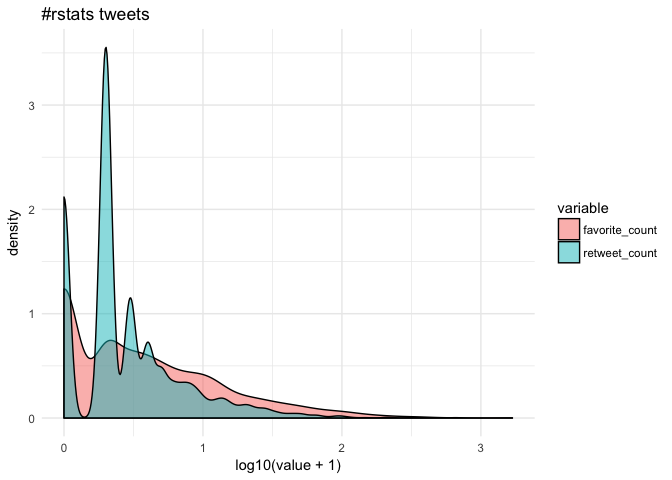
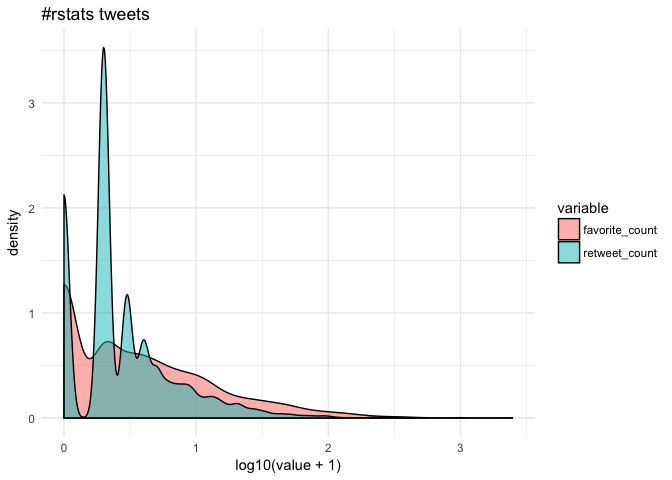
updated plots

Changed region(s): [[0.0938, 0.0938, 0.625, 0.875]]

diff --git a/README.md b/README.md
@@ -2,29 +2,38 @@ Analyzing rtweet data with kerasformula
 ================
 Pete Mohanty
 
-This document introduces `kms`, the main function of `library(kerasformula)`. Newly on `CRAN`, `kerasformula` offers a high-level interface for `library(keras)`. Many classic machine learning tutorials assume that data come in a relatively homogenous form (e.g., pixels for digit recognition or word counts or ranks) which can make coding somewhat cumbersome when data come in a heterogenous data frame. `kms` takes advantage of the flexibility of R formulas to smooth this process.
+Overview
+--------
+
+The [kerasformula](https://cran.r-project.org/web/packages/kerasformula/index.html) package offers a high-level interface for the R interface to [Keras](https://keras.rstudio.com). It's main interface is the `kms` function, a regression-style interface to `keras_model_sequential` that uses formulas and sparse matrices.
+
+The [kerasformula](https://cran.r-project.org/web/packages/kerasformula/index.html) package is available on CRAN, and can be installed with:
+
+``` r
+# install the kerasformula package
+install.packages("kerasformula")    # or devtools::install_github("rdrr1990/kerasformula")
+library(kerasformula)
+
+# install the core keras library (if you haven't already done so)
+# see ?install_keras() for options e.g. install_keras(tensorflow = "gpu")
+install_keras()
+```
+
+The kms() function
+------------------
+
+Many classic machine learning tutorials assume that data come in a relatively homogenous form (e.g., pixels for digit recognition or word counts or ranks) which can make coding somewhat cumbersome when data is contained in a heterogenous data frame. `kms()` takes advantage of the flexibility of R formulas to smooth this process.
 
 `kms` builds dense neural nets and, after fitting them, returns a single object with predictions, measures of fit, and details about the function call. `kms` accepts a number of parameters including the loss and activation functions found in `keras`. `kms` also accepts compiled `keras_model_sequential` objects allowing for even further customization. This little demo shows how `kms` can aid is model building and hyperparameter selection (e.g., batch size) starting with raw data gathered using `library(rtweet)`.
 
-To get going, make sure that `keras` and `retweet` configured.
-
-``` r
-install.packages("kerasformula", "rtweet")
-library(kerasformula)
-install_keras()                        # first time only. see ?install_keras() for install options
-                                       # like install_keras(tensorflow = "gpu")
-
-library(rtweet)                        # see https://github.com/mkearney/rtweet
-```
-
-Let's look at \#rstats tweets (excluding retweets) for a six-day period ending January 24, 2018 at 00:15. This happens to give us a nice reasonable number of observations to work with in terms of runtime (and the purpose of this document is to show syntax, not build particularly predictive models).
+Let's look at \#rstats tweets (excluding retweets) for a six-day period ending January 24, 2018 at 10:40. This happens to give us a nice reasonable number of observations to work with in terms of runtime (and the purpose of this document is to show syntax, not build particularly predictive models).
 
 ``` r
 rstats <- search_tweets("#rstats", n = 10000, include_rts = FALSE)
 dim(rstats)
 ```
 
-    [1] 2728   42
+    [1] 2840   42
 
 Suppose our goal is to predict how popular tweets will be based on how often the tweet was retweeted and favorited (which correlate strongly).
 
@@ -32,14 +41,14 @@ Suppose our goal is to predict how popular tweets will be based on how often the
 cor(rstats$favorite_count, rstats$retweet_count, method="spearman")
 ```
 
-    [1] 0.7000378
+    [1] 0.7051952
 
 Since few tweeets go viral, the data are quite skewed towards zero.
 
 ![](README_files/figure-markdown_github-ascii_identifiers/densities-1.png)
 
-Getting the Most out of Formulas
-================================
+Getting the most out of formulas
+--------------------------------
 
 Let's suppose we are interested in putting tweets into categories based on popularity but we're not sure how finely-grained we want to make distinctions. Some of the data, like `rstats$mentions_screen_name` comes in a list of varying lengths, so let's write a helper function to count non-NA entries.
 
@@ -72,14 +81,14 @@ popularity$confusion
 
                    
                     (-1,0] (0,1] (1,10] (10,100] (100,1e+03] (1e+03,1e+04]
-      (-1,0]            40     4     29        2           0             0
-      (0,1]             28    18     64        2           0             0
-      (1,10]            10     5    191       22           0             0
-      (10,100]           0     2     54       48           3             0
-      (100,1e+03]        0     0      4       10           2             0
-      (1e+03,1e+04]      0     0      0        0           0             0
+      (-1,0]            37    12     28        2           0             0
+      (0,1]             14    19     72        1           0             0
+      (1,10]             6    11    187       30           0             0
+      (10,100]           1     3     54       68           0             0
+      (100,1e+03]        0     0      4       10           0             0
+      (1e+03,1e+04]      0     0      0        1           0             0
 
-The model only classifies about 55.6% of the out-of-sample data correctly. The confusion matrix suggests that model does best with tweets that aren't retweeted but struggles with others. The `history` plot also suggests that out-of-sample accuracy is not very stable. We can easily change the breakpoints and number of epochs.
+The model only classifies about 55.5% of the out-of-sample data correctly. The confusion matrix suggests that model does best with tweets that aren't retweeted but struggles with others. The `history` plot also suggests that out-of-sample accuracy is not very stable. We can easily change the breakpoints and number of epochs.
 
 ``` r
 breaks <- c(-1, 0, 1, 25, 50, 75, 100, 500, 1000, 10000)
@@ -126,8 +135,8 @@ popularity <- kms(pop_input, rstats)
 
 ![](README_files/figure-markdown_github-ascii_identifiers/mentionsplot-1.png)
 
-Customizing Layers with kms()
-=============================
+Customizing layers with kms()
+-----------------------------
 
 We could add more data, perhaps add individual words from the text or some other summary stat (`mean(text %in% LETTERS)` to see if all caps explains popularity). But let's alter the neural net.
 
@@ -137,7 +146,7 @@ The `input.formula` is used to create a sparse model matrix. For example, `rstat
 popularity$P
 ```
 
-    [1] 1243
+    [1] 1277
 
 Say we wanted to reshape the layers to transition more gradually from the input shape to the output.
 
@@ -153,7 +162,7 @@ popularity <- kms(pop_input, rstats,
 `kms` builds a `keras_sequential_model()`, which is a stack of linear layers. The input shape is determined by the dimensionality of the model matrix (`popularity$P`) but after that users are free to determine the number of layers and so on. The `kms` argument `layers` expects a list, the first entry of which is a vector `units` with which to call `keras::layer_dense()`. The first element the number of `units` in the first layer, the second element for the second layer, and so on (`NA` as the final element connotes to auto-detect the final number of units based on the observed number of outcomes). `activation` is also passed to `layer_dense()` and may take values such as `softmax`, `relu`, `elu`, and `linear`. (`kms` also has a separate parameter to control the optimizer; by default `kms(... optimizer = 'rms_prop')`.) The `dropout` that follows each dense layer rate prevents overfitting (but of course isn't applicable to the final layer).
 
 Choosing a Batch Size
-=====================
+---------------------
 
 By default, `kms` uses batches of 32. Suppose we were happy with our model but didn't have any particular intuition about what the size should be.
 
@@ -175,56 +184,33 @@ colMeans(accuracy)
 ```
 
     Nbatch_16 Nbatch_32 Nbatch_64 
-    0.3368697 0.4665254 0.3566179 
+    0.5088407 0.3820850 0.5556952 
 
-For the sake of curtailing runtime, the number of epochs has been set arbitrarily short but, from those results, 32 is the best batch size.
+For the sake of curtailing runtime, the number of epochs has been set arbitrarily short but, from those results, 64 is the best batch size.
 
 Making predictions for new data
-===============================
+-------------------------------
 
 Thus far, we have been using the default settings for `kms` which first splits data into 80% training and 20% testing. Of the 80% training, a certain portion is set aside for validation and that's what produces the epoch-by-epoch graphs of loss and accuracy. The 20% is only used at the end to assess predictive accuracy. But suppose you wanted to make predictions on a new data set...
 
 ``` r
 popularity <- kms(pop_input, rstats[1:1000,])
 predictions <- predict(popularity, rstats[1001:2000,])
-predictions$confusion
-```
-
-                   
-                    (-1,0] (0,1] (1,25] (25,50] (50,75] (75,100] (100,500]
-      (-1,0]            25    79     58       0       0        0         0
-      (0,1]              7    67    113       0       0        0         0
-      (1,25]             3    52    468       0       0        0         0
-      (25,50]            0     3     62       0       0        0         0
-      (50,75]            0     0     22       0       0        0         0
-      (75,100]           0     0     11       0       0        0         0
-      (100,500]          0     1     25       0       0        0         0
-      (500,1e+03]        0     0      4       0       0        0         0
-      (1e+03,1e+04]      0     0      0       0       0        0         0
-                   
-                    (500,1e+03] (1e+03,1e+04]
-      (-1,0]                  0             0
-      (0,1]                   0             0
-      (1,25]                  0             0
-      (25,50]                 0             0
-      (50,75]                 0             0
-      (75,100]                0             0
-      (100,500]               0             0
-      (500,1e+03]             0             0
-      (1e+03,1e+04]           0             0
-
-``` r
 predictions$accuracy
 ```
 
-    [1] 0.56
+    [1] 0.579
+
+``` r
+# predictions$confusion
+```
 
 Because the formula creates a dummy variable for each screen name and mention, any given set of tweets is all but guaranteed to have different columns. `predict.kms_fit` is an `S3 method` that takes the new data and constructs a (sparse) model matrix that preserves the original structure of the training matrix. `predict` then returns the predictions along with a confusion matrix and accuracy score.
 
 If your newdata has the same observed levels of y and columns of x\_train (the model matrix), you can also use `keras::predict_classes` on `object$model`.
 
-Inputting a Compiled Keras Model
-================================
+Using a compiled Keras model
+----------------------------
 
 This section shows how to input a model compiled in the fashion typical to `library(keras)`, which is useful for more advanced models. Here is an example for `lstm` analogous to the [imbd with Keras example](https://tensorflow.rstudio.com/keras/articles/examples/imdb_lstm.html).
 
@@ -246,3 +232,8 @@ k %>% compile(
 
 popularity_lstm <- kms(pop_input, rstats, k)
 ```
+
+Questions? Comments?
+====================
+
+Drop me a line via the project's [Github repo](https://github.com/rdrr1990/kerasformula). Special thanks to @dfalbel and @jjallaire for helpful suggestions.
